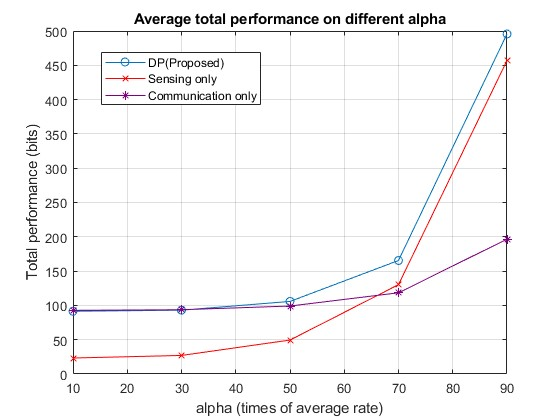
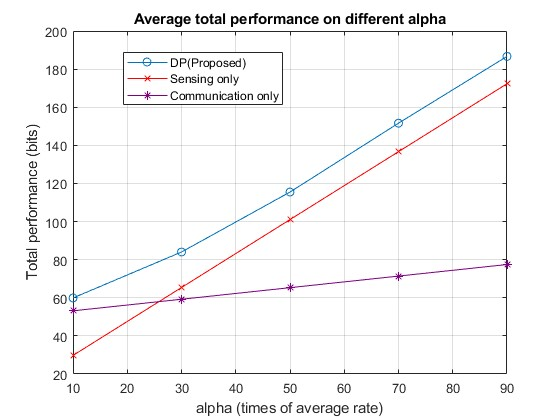
final result

diff --git a/graduation/main_graph_solver.m b/graduation/main_graph_solver.m
@@ -1,22 +1,30 @@
-clear all
-% s=Single_UAV_Solver;
-% d=s.Solver_row(1);
-% [sum_rate_optimal_dp, ~, ~, ~,  ~, ~, ~, n_grid, ~]=d.get_dp_result;
-% 
-% g=Graph_Solver(s);
-% g.start=d.start;
-% 
-% g.start_direction=d.start_direction;
-% g.finish=d.finish;
-% g.finish_direction=d.finish_direction;
-% g.set_edge_time;
-% 
-% g.solve_path
-% error_graph=g.sum_rate-sum_rate_optimal_dp
-% [rate_dp, N_SAR_dp, comm_rate_dp]=d.get_BCD_result();
+clear
+clc;
+s=Single_UAV_Solver;
+d=s.Solver_row(1);
+[sum_rate_optimal_dp, ~, ~, ~,  ~, ~, ~, n_grid, ~]=d.get_dp_result;
+
+g=Graph_Solver(s);
+g.start=d.start;
+
+g.start_direction=d.start_direction;
+g.finish=d.finish;
+g.finish_direction=d.finish_direction;
+g.set_edge_time;
+
+g.solve_path
+diff_graph=(g.sum_rate-sum_rate_optimal_dp)*isequal(d.all_step, g.all_step)
+[rate_dp, N_SAR_dp, comm_rate_dp]=d.get_BCD_result();
+isequal(d.all_step, g.all_step)
+
+d.sum_rate>g.sum_rate
+
 %% below are for many tests
 % Remember to set the parameters in Single_UAV_Solver, 
 % e.g., small time_slot_max
+clear
+clc
+close all
 N_iter=100;
 results=zeros(N_iter,6);
 dp_larger=0;
@@ -29,10 +37,10 @@ for ii=1:N_iter
          dp_larger=dp_larger+(rate_dp>rate_graph);
          graph_larger=graph_larger+(rate_graph>rate_dp);
     end
-    if rate_graph-rate_dp>1e-4
-        disp('not ended')
-        break;
-    end
+    %if rate_graph-rate_dp>1e-4
+    %    disp('not ended')
+    %    break;
+    %end
 end
 dp_larger
 graph_larger

diff --git a/graduation/test_multiple_UAV_alpha.m b/graduation/test_multiple_UAV_alpha.m
@@ -1,15 +1,15 @@
 function [rate_dp, N_SAR_dp, comm_rate_dp, rate_sens, N_SAR_sens, ...
     comm_rate_sens, rate_comm, N_SAR_comm, comm_rate_comm]=test_multiple_UAV_alpha(alpha, Multiple_UAV_Solver_inst)
 
-
+%%
 m=Multiple_UAV_Solver_inst;
 m.mean_rate=m.mean_rate/Multiple_UAV_Solver_inst.alpha_multiplier*alpha;
-
+m.alpha_multiplier=alpha;
 disp(['Now alpha is ', num2str(alpha)])
 m.initialize_DP_multi_Solver();
 
 
-
+%%
 
 DP_Solver_multi_inst=m.Solver_row(1); % DP_Solver_multi
 DP_Solver_multi_inst.BCD_for_UAV_paths_DP();
@@ -24,7 +24,7 @@ if N_SAR_dp~=DP_Solver_multi_inst.n_grid_total
 end
     
 
-
+%%
 m.initialize_DP_comm_multi_Solver();
 DP_comm_Solver_multi_inst=m.DP_comm_multi_Solver; % an DP_Solver_multi object
 DP_comm_Solver_multi_inst.get_comm_paths();
@@ -33,7 +33,7 @@ N_SAR_comm=DP_comm_Solver_multi_inst.n_grid_total;
 comm_rate_comm=DP_comm_Solver_multi_inst.comm_rate_total;
 
 
-
+%%
 m.initialize_DP_sens_multi_Solver();
 DP_sens_Solver_multi_inst=m.DP_sens_multi_Solver;
 DP_sens_Solver_multi_inst.get_sens_paths;

diff --git a/graduation/@Single_UAV_Solver/Single_UAV_Solver.m b/graduation/@Single_UAV_Solver/Single_UAV_Solver.m
@@ -107,7 +107,7 @@ classdef Single_UAV_Solver < handle
             obj.N_azi=round(obj.cell_side/obj.vr/obj.pri);
             obj.N_azi= obj.N_azi-mod(obj.N_azi, obj.N_range_cell);
             obj.vr= obj.cell_side/ obj.N_azi/ obj.pri; % actual result
-            obj.time_slot_max=150;
+            obj.time_slot_max=50;
             % if direction==north_south
             %     v=[0;vr;0];
             %     UAV_pos_ini=[-distance;0;H];
@@ -121,8 +121,8 @@ classdef Single_UAV_Solver < handle
             obj.p_max_total= obj.time_slot_max* obj.p_mean;
             obj.power_initial_vec=ones(1, obj.time_slot_max)*obj.p_mean;
 
-            obj.N_cell_x=15;
-            obj.N_cell_y=15;
+            obj.N_cell_x=6;
+            obj.N_cell_y=6;
 
             obj.start=[5;5];
             obj.sensing_matrix=ones(obj.N_cell_x, obj.N_cell_y);

diff --git a/graduation/@Graph_Solver/solve_path.m b/graduation/@Graph_Solver/solve_path.m
@@ -88,9 +88,18 @@ end
 %         rate=rate+obj.get_rate(a,b,1);
 %     end
 % end
+all_step_new=[];
+counter=1;
+for ii=1:size(all_step,2)
+    if ~isequal(all_step(:, ii), [0;0])
+        all_step_new(:, counter)=all_step(:, ii);
+        counter=counter+1;
+    end
+end
 obj.solved_col=y;
-obj.all_step=all_step;
+obj.all_step=all_step_new;
 obj.all_step_with_time=obj.StepWithTimeSlot;
+obj.solved_adjacency_matrix=x;
 obj.sum_rate=obj.get_correct_rate+obj.count_n_grid*obj.mean_rate;
 clear;
 end

diff --git a/graduation/multiple_different_alpha.m b/graduation/multiple_different_alpha.m
@@ -2,7 +2,7 @@
 clear all
 clc
 close all
-N_iter=2;
+N_iter=10;
 N_Solver=3;
 alpha_row=[10 30 50 70 90];
 rate_dp_matrix          =zeros(N_iter, length(alpha_row));
@@ -166,7 +166,7 @@ legend('DP(Proposed)', 'DP for Sensing only', 'DP for Communication only')
 title("Average communiation performance on different alpha")
 %%
 clear m
-save('multipl_alpha2.mat')
+save('multipl_alpha10.mat')
 
 % assume cell_matrix is done
 

diff --git a/graduation/@Graph_Solver/Graph_Solver.m b/graduation/@Graph_Solver/Graph_Solver.m
@@ -6,6 +6,7 @@ classdef Graph_Solver < Path_Solver
         node_number_matrix;
         all_rate_matrix;
         solved_col;
+        solved_adjacency_matrix;
         % below are parameters inherited from Path_Solver
 %         N_cell_x;
 %         N_cell_y;

diff --git a/graduation/plot_multiple_alpha.m b/graduation/plot_multiple_alpha.m
@@ -1,6 +1,6 @@
 % 1. load 原本的
 % 2. 改第二個section的檔名
-load('multipl_alpha2.mat')
+load('multipl_alpha10.mat')
 close all
 clc
 %%
